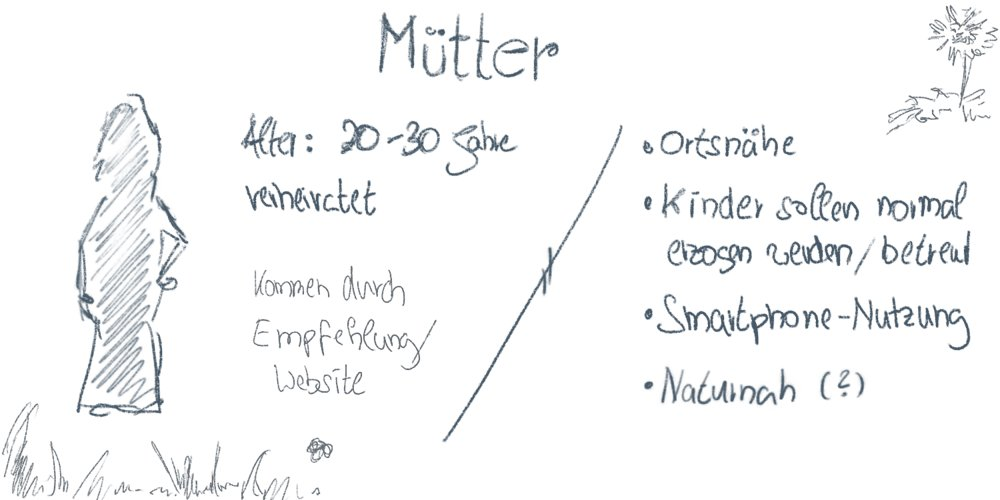
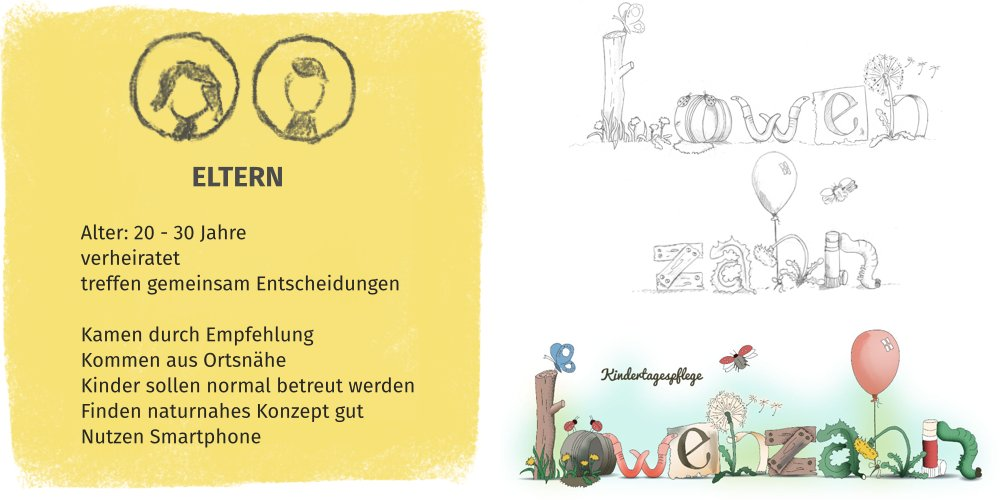
rework projects

diff --git a/src/content/projectKS.md b/src/content/projectKS.md
@@ -17,14 +17,10 @@ Slider, Teaser und jede digitale Werbemaßnahme bekam dadurch ein einheitliches 
 
 **Testen und Validieren:** Getestet wurden die Maßnahmen zuerst mittels **Heuristic Markup** und monatlich die steigenden Umsätze im Online-Shop registriert, zudem habe ich jede Änderung mit Hilfe des **5-Sekunden-Tests** überprüft.
 
-**Resultat:** Nach der kompletten Bandbreite an Optimierungen, vor allem im Bereich **Produktpflege,** aber auch **UX/UI-Design,** optimierter Informationsarchitektur und Werbemaßnahmen, hatte der Onlineshop das erste Mal **Rekordumsätze von bis zu 30%** zu verzeichnen und man erhielt durchweg positive Resonanz, sogar ein **Konkurrent versucht das Styling des Onlineshops zu kopieren.**
+**Resultat:** Nach der kompletten Bandbreite an Optimierungen, vor allem im Bereich **Produktpflege,** aber auch **UX/UI-Design,** optimierter Informationsarchitektur und Werbemaßnahmen, hatte der Onlineshop das erste Mal **Rekordumsätze von bis zu 30%** zu verzeichnen und man erhielt durchweg positive Resonanz, sogar ein Mitbewerber hat sich vom Styling des Onlineshops inpirieren lassen.
 
-![Proto-Persona für den generellen Kundenstamm](../images/ProtopersonaKS.jpg)
+![Proto-Persona für den generellen Kundenstamm](../images/KS-CI.jpg)
 
-<p style="font-size: var(--fs-small-text);text-align: justify;">Proto-Persona zur Planung für meine Designs und dem generellen Überblick über den Kunden und was gerne Bestellt wird.</p>
-
-![CCorporate Identity des Online-Shops](../images/KS-CI.jpg)
-
-<p style="font-size: var(--fs-small-text);text-align: justify;">Anlegen des erweiterten Farbschemas auf Basis der ursprünglichen Logo-Farben (schwarz/gelb) und abgleichen möglichst passender Schriften für Print und Online.</p>
+<p style="font-size: var(--fs-small-text);text-align: justify;">Anlegen des erweiterten Farbschemas auf Basis der ursprünglichen Logo-Farben (schwarz/gelb) und abgleichen möglichst passender Schriften für Print und Online (li.). Proto-Persona zur Planung für meine Designs und dem generellen Überblick über den Kunden und was gerne Bestellt wird (re).</p>
 
 <p>&bull; &bull; &bull;</p>

diff --git a/src/content/projectKitala.md b/src/content/projectKitala.md
@@ -20,14 +20,14 @@ Beim **Illustrieren des Logos** habe ich gleichzeitig auch das grundsätzliche *
 
 ![Planung und Vorzeichnung](../images/Kitala_PlanungZeichnung.jpg)
 
-<p style="font-size: var(--fs-small-text);text-align: right;">Stichwortsuche nach Begriffen, die für die Website wichtig für Informationgehalt werden und anschließender Zeichnung der Startseite.</p>
+<p style="font-size: var(--fs-small-text);">Stichwortsuche nach Begriffen, die für die Website wichtig für Informationgehalt werden und anschließender Zeichnung der Startseite.</p>
 
 ![Logoskizzen und Farbschemen](../images/LogoMockup_KiTaLa.jpg)
 
-<p style="font-size: var(--fs-small-text);text-align: right;">Anfertigen von Skizzen für das Logo und anschließender Umsetzung im Grafikprogramm bei gleichzeitiger Entwicklung des Farbschemas.</p>
+<p style="font-size: var(--fs-small-text);">Anfertigen von Skizzen für das Logo und anschließender Umsetzung im Grafikprogramm bei gleichzeitiger Entwicklung des Farbschemas.</p>
 
 ![Aktionswoche](../images/Aktion_KiTaLa.jpg)
 
-<p style="font-size: var(--fs-small-text);text-align: right;">Von mir mit eigenen Illustrationen gestaltete Socialmedia-Posts, die während der bundesweiten Aktionswoche der Tagesmütter in privaten Accounts täglich geteilt wurden.</p>
+<p style="font-size: var(--fs-small-text);">Von mir mit eigenen Illustrationen gestaltete Socialmedia-Posts, die während der bundesweiten Aktionswoche der Tagesmütter in privaten Accounts täglich geteilt wurden.</p>
 
 <p>&bull; &bull; &bull;</p>

diff --git a/src/content/projectLoew.md b/src/content/projectLoew.md
@@ -21,14 +21,10 @@ Die Website programmierte ich in **Joomla!** und **CSS3,** das mobile Menü mit 
 
 ![Proto-Persona der Eltern/Mütter](../images/ProtopersonaLoew.jpg)
 
-<p style="font-size: var(--fs-small-text);text-align: justify;">Anlegen einer Proto-Persona mit weiteren Infos, wie Kita gefunden wurde.</p>
+<p style="font-size: var(--fs-small-text);text-align: justify;">Anlegen einer Proto-Persona mit weiteren Infos, wie Kita gefunden wurde (li). Logoentwicklung mit Vorabskizze (re).</p>
 
-![Wireframe der Website](../images/LoewWireframe.jpg)
+![Suchbegriffe im Bereich Tagesmütter](../images/LoewWireframe.jpg)
 
-<p style="font-size: var(--fs-small-text);text-align: justify;">Ideation und Wireframing von den ersten Entwürfen auf Papier</p>
-
-![Suchbegriffe im Bereich Tagesmütter](../images/SearchWordsCSV_KiTaLa.jpg)
-
-<p style="font-size: var(--fs-small-text);text-align: justify;">Exportierte CSV-Datei der Suchbegriffe eines Online-Tools. Damit konnte ich die grundsätzlichen Inhalte als Platzhalter, bis der richtige Text da war, auf der Website aufbauen.</p>
+<p style="font-size: var(--fs-small-text);text-align: justify;">Exportierte CSV-Datei der Suchbegriffe eines Online-Tools. Damit konnte ich die grundsätzlichen Inhalte als Platzhalter, bis der richtige Text da war, auf der Website aufbauen (li.). Ideation und Wireframing von den ersten Entwürfen auf Papier (re).</p>
 
 <p>&bull; &bull; &bull;</p>
